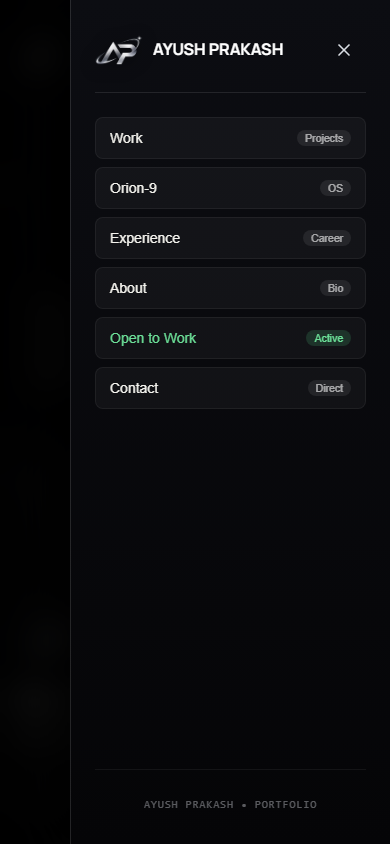
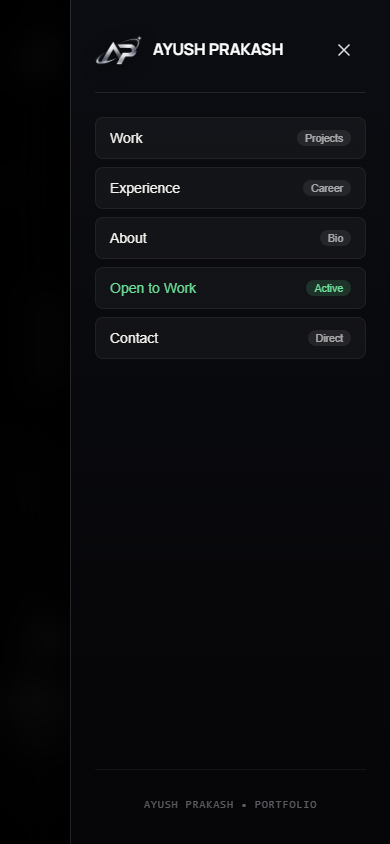
fix(navigation): move Option Wheel to top-right, remove brackets completely, and refine to 5 options

diff --git a/src/components/reactbits/OptionWheel.css b/src/components/reactbits/OptionWheel.css
@@ -2,6 +2,7 @@
    REACT BITS: OPTION WHEEL (Official Implementation Baseline)
    Curved option picker that spins with scroll, drag or arrow keys, tilting items away.
    Metallic silver & dark luxury aesthetic for Ayush Prakash Portfolio.
+   NO BRACKETS, NO CORNER MARKERS, NO SELECTION FRAMES, NO HORIZONTAL LINES.
    ============================================================================ */
 
 .option-wheel {
@@ -20,13 +21,15 @@
   user-select: none;
   touch-action: none;
   outline: none;
-  border-radius: 16px;
+  border-radius: 0;
   background: transparent;
-  transition: border-color 0.25s ease, box-shadow 0.25s ease;
+  border: none;
+  box-shadow: none;
+  transition: opacity 0.25s ease;
 }
 
 .option-wheel:focus-visible {
-  outline: 2px solid rgba(217, 221, 227, 0.5);
+  outline: 2px solid rgba(217, 221, 227, 0.4);
   outline-offset: 4px;
 }
 
@@ -46,8 +49,8 @@
   top: 0;
   left: 0;
   right: 0;
-  height: 60px;
-  background: linear-gradient(to bottom, rgba(5, 5, 8, 0.8) 0%, transparent 100%);
+  height: 50px;
+  background: linear-gradient(to bottom, rgba(5, 5, 8, 0.7) 0%, transparent 100%);
   pointer-events: none;
   z-index: 2;
 }
@@ -57,52 +60,10 @@
   bottom: 0;
   left: 0;
   right: 0;
-  height: 60px;
-  background: linear-gradient(to top, rgba(5, 5, 8, 0.8) 0%, transparent 100%);
+  height: 50px;
+  background: linear-gradient(to top, rgba(5, 5, 8, 0.7) 0%, transparent 100%);
   pointer-events: none;
   z-index: 2;
-}
-
-/* Center indicator slot with fine metallic silver bracket markers */
-.option-wheel__slot-indicator {
-  position: absolute;
-  top: 50%;
-  left: 0;
-  right: 0;
-  height: 48px;
-  transform: translateY(-50%);
-  pointer-events: none;
-  z-index: 1;
-  border-top: 1px solid rgba(217, 221, 227, 0.18);
-  border-bottom: 1px solid rgba(217, 221, 227, 0.18);
-  background: linear-gradient(90deg, transparent 0%, rgba(217, 221, 227, 0.04) 50%, transparent 100%);
-}
-
-/* Left & right precision bracket notches */
-.option-wheel__slot-indicator::before {
-  content: '';
-  position: absolute;
-  left: 8px;
-  top: 50%;
-  width: 5px;
-  height: 16px;
-  transform: translateY(-50%);
-  border-left: 2px solid rgba(217, 221, 227, 0.5);
-  border-top: 2px solid rgba(217, 221, 227, 0.5);
-  border-bottom: 2px solid rgba(217, 221, 227, 0.5);
-}
-
-.option-wheel__slot-indicator::after {
-  content: '';
-  position: absolute;
-  right: 8px;
-  top: 50%;
-  width: 5px;
-  height: 16px;
-  transform: translateY(-50%);
-  border-right: 2px solid rgba(217, 221, 227, 0.5);
-  border-top: 2px solid rgba(217, 221, 227, 0.5);
-  border-bottom: 2px solid rgba(217, 221, 227, 0.5);
 }
 
 /* Each option is absolutely centered, then offset along the curve by the
@@ -141,24 +102,25 @@
 
 .option-wheel__item--selected {
   font-weight: 700;
+  color: #ffffff;
   letter-spacing: 0.04em;
-  text-shadow: 0 0 16px rgba(255, 255, 255, 0.45), 0 0 32px rgba(217, 221, 227, 0.25);
+  text-shadow: 0 0 16px rgba(255, 255, 255, 0.55), 0 0 28px rgba(217, 221, 227, 0.3);
 }
 
 /* ============================================================================
    GLOBAL FLOATING PORTFOLIO NAVIGATION: .floating-portfolio-navigation
-   Pure, standalone vertical 3D OptionWheel floating in far-right viewport.
-   Zero outer card, zero outer border, zero panel backgrounds.
+   Pure, standalone vertical 3D OptionWheel floating in TOP-RIGHT viewport.
+   Zero brackets, zero frames, zero borders, zero outer cards.
    ============================================================================ */
 
 .floating-portfolio-navigation,
 .floating-portfolio-nav {
   position: fixed;
-  right: 3.5vw;
-  top: 50%;
-  transform: translateY(-50%);
+  top: 105px;
+  right: 4vw;
+  transform: none;
   width: 250px;
-  height: 420px;
+  height: 390px;
   z-index: 40;
   pointer-events: auto;
   user-select: none;
@@ -179,24 +141,6 @@
   box-shadow: none !important;
 }
 
-.option-wheel--floating-nav .option-wheel__vignette-top {
-  height: 60px;
-  background: linear-gradient(to bottom, rgba(5, 5, 8, 0.75) 0%, transparent 100%);
-}
-
-.option-wheel--floating-nav .option-wheel__vignette-bottom {
-  height: 60px;
-  background: linear-gradient(to top, rgba(5, 5, 8, 0.75) 0%, transparent 100%);
-}
-
-.option-wheel--floating-nav .option-wheel__slot-indicator {
-  height: 52px;
-  border-top: 1px solid rgba(217, 221, 227, 0.2);
-  border-bottom: 1px solid rgba(217, 221, 227, 0.2);
-  background: linear-gradient(90deg, transparent 0%, rgba(217, 221, 227, 0.04) 50%, transparent 100%);
-  box-shadow: none;
-}
-
 .option-wheel--floating-nav .option-wheel__item {
   font-size: 1.55rem;
   letter-spacing: 0.04em;
@@ -208,7 +152,7 @@
 .option-wheel--floating-nav .option-wheel__item--selected {
   font-weight: 700;
   color: #ffffff;
-  letter-spacing: 0.06em;
+  letter-spacing: 0.05em;
   text-shadow: 0 0 16px rgba(255, 255, 255, 0.65), 0 0 28px rgba(217, 221, 227, 0.35);
 }
 
@@ -216,13 +160,15 @@
 @media (max-width: 1024px) and (min-width: 769px) {
   .floating-portfolio-navigation,
   .floating-portfolio-nav {
-    right: 2vw;
-    width: 220px;
-    height: 380px;
+    top: 96px;
+    right: 3vw;
+    transform: none;
+    width: 210px;
+    height: 340px;
   }
 
   .option-wheel--floating-nav .option-wheel__item {
-    font-size: 1.35rem;
+    font-size: 1.3rem;
   }
 }
 

diff --git a/src/components/reactbits/OptionWheel.tsx b/src/components/reactbits/OptionWheel.tsx
@@ -63,7 +63,6 @@ interface WheelConfig {
  */
 export const DEFAULT_NAV_WHEEL_ITEMS: OptionWheelItemObject[] = [
   { id: 'work', label: 'Work', targetId: 'projects', badge: 'Projects', description: 'Selected Engineering & Product Implementations' },
-  { id: 'orion9', label: 'Orion-9', targetId: 'orion-9', badge: 'OS', description: 'Autonomous Supply Chain Architecture' },
   { id: 'experience', label: 'Experience', targetId: 'experience', badge: 'Career', description: 'Enterprise Operations Leadership' },
   { id: 'about', label: 'About', targetId: 'about', badge: 'Bio', description: 'Background & Strategic Positioning' },
   { id: 'opentowork', label: 'Open to Work', targetId: 'opentowork', badge: 'Active', description: 'Role & Location Preferences' },
@@ -444,9 +443,6 @@ export const OptionWheel: React.FC<OptionWheelProps> = ({
       onPointerCancel={handlePointerEnd}
       onKeyDown={handleKeyDown}
     >
-      {/* Center Target Slot Marker */}
-      <div className="option-wheel__slot-indicator" />
-
       {/* Curved 3D Option Elements */}
       {validItems.map((item, index) => {
         const labelText = getItemLabel(item);

diff --git a/src/components/public/FloatingPortfolioNavigation.tsx b/src/components/public/FloatingPortfolioNavigation.tsx
@@ -10,7 +10,6 @@ export interface FloatingPortfolioNavigationProps {
 /**
  * Real Section Targets in published portfolio DOM:
  * - Work -> 'projects' (id="projects")
- * - Orion-9 -> 'orion-9' (id="orion-9")
  * - Experience -> 'experience' (id="experience")
  * - About -> 'about' (id="about")
  * - Open to Work -> 'opentowork' (id="opentowork")
@@ -18,7 +17,6 @@ export interface FloatingPortfolioNavigationProps {
  */
 export const portfolioItems = [
   'Work',
-  'Orion-9',
   'Experience',
   'About',
   'Open to Work',
